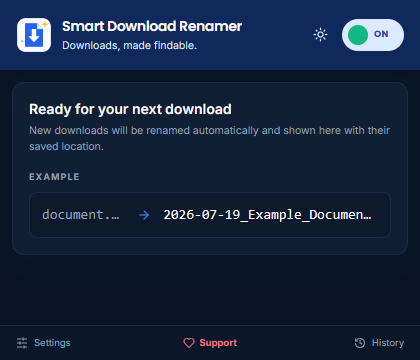
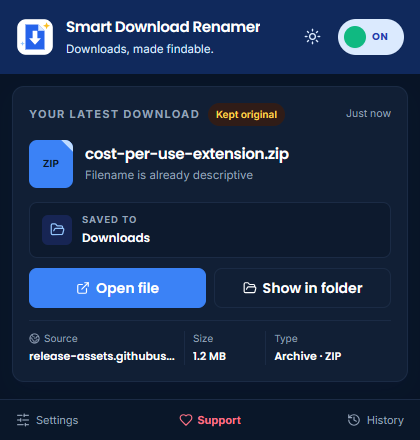
Improve popup readability at real Chrome scale

diff --git a/src/popup/components/LatestDownloadCard.tsx b/src/popup/components/LatestDownloadCard.tsx
@@ -36,35 +36,35 @@ export function LatestDownloadCard({ record, onOpenFile, onShowInFolder }: Lates
     <section className="rounded-xl border border-[#ccd9ee] bg-white p-4 shadow-card dark:border-lift dark:bg-panel">
       <div className="flex items-center justify-between gap-3">
         <div className="flex items-center gap-2">
-          <p className="text-[10px] font-bold uppercase tracking-[0.12em] text-slate-500 dark:text-slate-400">
+          <p className="text-[11px] font-bold uppercase tracking-[0.12em] text-slate-500 dark:text-slate-400">
             Your latest download
           </p>
-          <span className={`inline-flex items-center gap-1 rounded-full px-2 py-1 text-[9px] font-semibold ${statusStyles[record.status]}`}>
-            {record.status === "renamed" && <Check size={10} strokeWidth={3} aria-hidden="true" />}
+          <span className={`inline-flex items-center gap-1 rounded-full px-2 py-1 text-[10px] font-semibold ${statusStyles[record.status]}`}>
+            {record.status === "renamed" && <Check size={11} strokeWidth={3} aria-hidden="true" />}
             {statusLabels[record.status]}
           </span>
         </div>
-        <time className="shrink-0 text-[9.5px] text-slate-500 dark:text-slate-400">
+        <time className="shrink-0 text-[10.5px] text-slate-500 dark:text-slate-400">
           {formatRelativeTime(record.completedAt || record.createdAt)}
         </time>
       </div>
 
       <div className="my-3.5 flex min-w-0 items-center gap-3">
-        <div className="relative grid h-12 w-11 shrink-0 place-items-center overflow-hidden rounded-lg bg-blue-600 text-[9px] font-bold tracking-wide text-white dark:bg-blue-500 dark:text-night">
+        <div className="relative grid h-12 w-11 shrink-0 place-items-center overflow-hidden rounded-lg bg-blue-600 text-[10px] font-bold tracking-wide text-white dark:bg-blue-500 dark:text-night">
           {extension}
           <span className="absolute right-0 top-0 h-3 w-3 bg-blue-300 [clip-path:polygon(100%_0,100%_100%,0_0)] dark:bg-blue-200" />
         </div>
         <div className="min-w-0">
-          <h2 className="filename-line text-[14px] font-semibold tracking-tight text-ink dark:text-white" title={filename}>
+          <h2 className="filename-line text-[15px] font-semibold tracking-[-0.02em] text-ink dark:text-white" title={filename}>
             {filename}
           </h2>
           {record.status === "renamed" && (
-            <p className="filename-line mt-0.5 text-[10.5px] text-slate-500 dark:text-slate-400" title={record.originalFilename}>
+            <p className="filename-line mt-0.5 text-[11.5px] text-slate-500 dark:text-slate-400" title={record.originalFilename}>
               <span className="mr-1 text-slate-400">was</span>{record.originalFilename}
             </p>
           )}
           {record.reason && record.status !== "renamed" && (
-            <p className="filename-line mt-0.5 text-[10.5px] text-slate-500 dark:text-slate-400" title={record.reason}>
+            <p className="filename-line mt-0.5 text-[11.5px] text-slate-500 dark:text-slate-400" title={record.reason}>
               {record.reason}
             </p>
           )}
@@ -72,38 +72,38 @@ export function LatestDownloadCard({ record, onOpenFile, onShowInFolder }: Lates
       </div>
 
       <div className="flex items-center gap-2.5 rounded-lg border border-[#cfdaec] bg-[#f2f6ff] px-3 py-2.5 dark:border-lift dark:bg-[#0d1a2e]">
-        <span className="grid h-7 w-7 shrink-0 place-items-center rounded-md bg-blue-100 text-blue-600 dark:bg-blue-950 dark:text-blue-300">
-          <FolderOpen size={14} aria-hidden="true" />
+        <span className="grid h-[30px] w-[30px] shrink-0 place-items-center rounded-md bg-blue-100 text-blue-600 dark:bg-blue-950 dark:text-blue-300">
+          <FolderOpen size={15} aria-hidden="true" />
         </span>
         <div className="min-w-0">
-          <p className="text-[8px] font-bold uppercase tracking-[0.1em] text-slate-500 dark:text-slate-400">Saved to</p>
-          <p className="font-display filename-line mt-0.5 text-[10.5px] font-semibold text-ink dark:text-white" title={record.fullPath}>
+          <p className="text-[9.5px] font-bold uppercase tracking-[0.1em] text-slate-500 dark:text-slate-400">Saved to</p>
+          <p className="font-display filename-line mt-0.5 text-[12px] font-semibold text-ink dark:text-white" title={record.fullPath}>
             {formatDownloadLocation(record.fullPath)}
           </p>
         </div>
       </div>
 
       <div className="mt-2.5 grid grid-cols-2 gap-2">
-        <Button size="compact" className="h-9 text-[11px]" onClick={() => onOpenFile(record)} disabled={!canOpen} title={canOpen ? "Open the downloaded file" : "Available for newly completed downloads"}>
-          <ExternalLink size={13} aria-hidden="true" /> Open file
+        <Button size="compact" className="h-10 text-[12.5px]" onClick={() => onOpenFile(record)} disabled={!canOpen} title={canOpen ? "Open the downloaded file" : "Available for newly completed downloads"}>
+          <ExternalLink size={14} aria-hidden="true" /> Open file
         </Button>
-        <Button size="compact" className="h-9 text-[11px]" variant="secondary" onClick={() => onShowInFolder(record)}>
-          <FolderOpen size={13} aria-hidden="true" /> Show in folder
+        <Button size="compact" className="h-10 text-[12.5px]" variant="secondary" onClick={() => onShowInFolder(record)}>
+          <FolderOpen size={14} aria-hidden="true" /> Show in folder
         </Button>
       </div>
 
       <dl className="mt-3 grid grid-cols-[1.25fr_.65fr_1fr] border-t border-[#dbe3f0] pt-2.5 dark:border-lift">
         <div className="min-w-0 border-r border-[#dbe3f0] pr-2 dark:border-lift">
-          <dt className="flex items-center gap-1 text-[8.5px] text-slate-500 dark:text-slate-400"><Globe2 size={10} aria-hidden="true" /> Source</dt>
-          <dd className="font-display filename-line mt-0.5 text-[9.5px] font-semibold text-ink dark:text-white">{record.sourceDomain || record.sourceName || "Unknown"}</dd>
+          <dt className="flex items-center gap-1 text-[10px] text-slate-500 dark:text-slate-400"><Globe2 size={11} aria-hidden="true" /> Source</dt>
+          <dd className="font-display filename-line mt-0.5 text-[11px] font-semibold text-ink dark:text-white">{record.sourceDomain || record.sourceName || "Unknown"}</dd>
         </div>
         <div className="min-w-0 border-r border-[#dbe3f0] px-2 dark:border-lift">
-          <dt className="text-[8.5px] text-slate-500 dark:text-slate-400">Size</dt>
-          <dd className="font-display filename-line mt-0.5 text-[9.5px] font-semibold text-ink dark:text-white">{formatFileSize(record.fileSize)}</dd>
+          <dt className="text-[10px] text-slate-500 dark:text-slate-400">Size</dt>
+          <dd className="font-display filename-line mt-0.5 text-[11px] font-semibold text-ink dark:text-white">{formatFileSize(record.fileSize)}</dd>
         </div>
         <div className="min-w-0 pl-2">
-          <dt className="text-[8.5px] text-slate-500 dark:text-slate-400">Type</dt>
-          <dd className="font-display filename-line mt-0.5 text-[9.5px] font-semibold text-ink dark:text-white">{formatDocumentType(record)}</dd>
+          <dt className="text-[10px] text-slate-500 dark:text-slate-400">Type</dt>
+          <dd className="font-display filename-line mt-0.5 text-[11px] font-semibold text-ink dark:text-white">{formatDocumentType(record)}</dd>
         </div>
       </dl>
     </section>

diff --git a/src/popup/components/RecentRenames.tsx b/src/popup/components/RecentRenames.tsx
@@ -17,34 +17,34 @@ export function RecentRenames({ records, onViewAll }: RecentRenamesProps) {
   if (records.length === 0) return null;
 
   return (
-    <section className="rounded-xl border border-[#ccd9ee] bg-white px-4 pb-1.5 pt-3 shadow-card dark:border-lift dark:bg-panel">
-      <div className="flex items-center justify-between pb-2">
+    <section className="rounded-xl border border-[#ccd9ee] bg-white px-4 pb-2 pt-3.5 shadow-card dark:border-lift dark:bg-panel">
+      <div className="flex items-center justify-between pb-2.5">
         <div className="flex items-center gap-2">
-          <h2 className="text-[11px] font-semibold text-ink dark:text-white">Recent activity</h2>
-          <span className="grid min-w-[18px] place-items-center rounded-full bg-accent-soft px-1.5 py-0.5 text-[8px] font-semibold text-blue-700 dark:bg-[#172c52] dark:text-blue-300">
+          <h2 className="text-[12.5px] font-semibold text-ink dark:text-white">Recent activity</h2>
+          <span className="grid min-w-[20px] place-items-center rounded-full bg-accent-soft px-1.5 py-0.5 text-[9.5px] font-semibold text-blue-700 dark:bg-[#172c52] dark:text-blue-300">
             {records.length}
           </span>
         </div>
-        <button className="cursor-pointer text-[9.5px] font-semibold text-blue-700 hover:text-blue-900 dark:text-blue-300 dark:hover:text-blue-200" onClick={onViewAll}>
+        <button className="cursor-pointer text-[11px] font-semibold text-blue-700 hover:text-blue-900 dark:text-blue-300 dark:hover:text-blue-200" onClick={onViewAll}>
           View all
         </button>
       </div>
 
       <div className="divide-y divide-[#dbe3f0] dark:divide-lift">
         {records.slice(0, 2).map((record) => (
-          <div key={record.id} className="grid min-h-[47px] animate-rise grid-cols-[7px_minmax(0,1fr)_14px] items-center gap-2.5">
+          <div key={record.id} className="grid min-h-[52px] animate-rise grid-cols-[7px_minmax(0,1fr)_14px] items-center gap-2.5">
             <span className={`h-2 w-2 rounded-full ${statusColors[record.status]}`} aria-label={record.status} />
             <div className="min-w-0">
-              <p className="font-display filename-line text-[10.5px] font-semibold text-ink dark:text-white" title={displayFilename(record)}>
+              <p className="font-display filename-line text-[12px] font-semibold text-ink dark:text-white" title={displayFilename(record)}>
                 {displayFilename(record)}
               </p>
-              <p className="filename-line mt-0.5 text-[9px] text-slate-500 dark:text-slate-400">
+              <p className="filename-line mt-0.5 text-[10.5px] text-slate-500 dark:text-slate-400">
                 {record.status === "renamed" ? record.originalFilename : record.reason || "Unchanged"}
                 <span className="mx-1.5 text-slate-300 dark:text-slate-600">·</span>
                 {formatRelativeTime(record.completedAt || record.createdAt)}
               </p>
             </div>
-            <ArrowRight size={13} className="text-slate-400" aria-hidden="true" />
+            <ArrowRight size={14} className="text-slate-400" aria-hidden="true" />
           </div>
         ))}
       </div>

diff --git a/scripts/verify-extension-ui.js b/scripts/verify-extension-ui.js
@@ -7,6 +7,25 @@ const distDir = path.join(rootDir, "dist");
 const screenshotsDir = path.join(rootDir, "screenshots");
 const tempRoot = path.join(rootDir, ".tmp");
 const profileDir = path.join(tempRoot, `extension-profile-${process.pid}`);
+const now = Date.now();
+const sampleDownload = {
+  id: "ui-check-download",
+  downloadId: 101,
+  originalFilename: "cost-per-use-extension.zip",
+  suggestedFilename: "cost-per-use-extension.zip",
+  finalFilename: "cost-per-use-extension.zip",
+  fullPath: "C:\\Users\\Taylor\\Downloads\\cost-per-use-extension.zip",
+  fileSize: 1_248_311,
+  completedAt: new Date(now - 12_000).toISOString(),
+  exists: true,
+  sourceDomain: "release-assets.githubusercontent.com",
+  sourceName: "GitHub",
+  documentType: "archive",
+  fileExtension: "zip",
+  createdAt: new Date(now - 15_000).toISOString(),
+  status: "skipped",
+  reason: "Filename is already descriptive",
+};
 
 if (!existsSync(path.join(distDir, "manifest.json"))) {
   throw new Error("Build the extension before running this check.");
@@ -41,7 +60,10 @@ try {
   await popup.setViewportSize({ width: 420, height: 600 });
 
   await popup.goto(`chrome-extension://${extensionId}/popup.html`, { waitUntil: "networkidle" });
-  await popup.evaluate(() => chrome.storage.local.set({ theme: "dark" }));
+  await popup.evaluate(
+    (record) => chrome.storage.local.set({ theme: "dark", renameHistory: [record] }),
+    sampleDownload,
+  );
   await popup.reload({ waitUntil: "networkidle" });
   await popup.evaluate(() => document.fonts.ready);
 
@@ -80,7 +102,12 @@ try {
   if (!popupMetrics.bodyFontLoaded || !popupMetrics.displayFontLoaded || popupMetrics.bodyFont !== popupMetrics.rootFont) {
     throw new Error("Bundled UI font did not load in the extension context.");
   }
-  if (popupMetrics.width !== 420 || popupMetrics.theme !== "dark") {
+  if (
+    popupMetrics.width !== 420
+    || popupMetrics.height < 420
+    || popupMetrics.height > 500
+    || popupMetrics.theme !== "dark"
+  ) {
     throw new Error("Popup dimensions or stored dark theme did not match the release UI.");
   }
   if (mobileMetrics.scrollWidth > mobileMetrics.width) {

diff --git a/src/popup/components/PopupFooter.tsx b/src/popup/components/PopupFooter.tsx
@@ -8,15 +8,15 @@ type PopupFooterProps = {
 
 export function PopupFooter({ onOpenSettings, onOpenHistory }: PopupFooterProps) {
   return (
-    <footer className="grid grid-cols-3 items-center border-t border-[#dbe3f0] bg-white px-4 py-2.5 text-[9.5px] dark:border-lift dark:bg-[#0a1729]">
+    <footer className="grid grid-cols-3 items-center border-t border-[#dbe3f0] bg-white px-4 py-3 text-[11px] dark:border-lift dark:bg-[#0a1729]">
       <button className="flex cursor-pointer items-center gap-1.5 text-slate-500 transition-colors hover:text-blue-700 dark:text-slate-400 dark:hover:text-blue-300" onClick={onOpenSettings}>
-        <SlidersHorizontal size={12} aria-hidden="true" /> Settings
+        <SlidersHorizontal size={14} aria-hidden="true" /> Settings
       </button>
       <a className="flex cursor-pointer items-center justify-center gap-1 font-bold text-rose-500 transition-colors hover:text-rose-700 dark:text-rose-400 dark:hover:text-rose-300" href={SUPPORT_URL} target="_blank" rel="noopener noreferrer" aria-label="Support Smart Download Renamer on Patreon">
-        <Heart size={12} aria-hidden="true" /> Support
+        <Heart size={14} aria-hidden="true" /> Support
       </a>
       <button className="flex cursor-pointer items-center justify-end gap-1.5 text-slate-500 transition-colors hover:text-blue-700 dark:text-slate-400 dark:hover:text-blue-300" onClick={onOpenHistory}>
-        <History size={12} aria-hidden="true" /> History
+        <History size={14} aria-hidden="true" /> History
       </button>
     </footer>
   );

diff --git a/src/popup/components/NamingPreview.tsx b/src/popup/components/NamingPreview.tsx
@@ -14,9 +14,9 @@ export function NamingPreview({ settings, domainRules }: { settings: NamingSetti
   return (
     <div className="rounded-xl border border-[#ccd9ee] bg-white p-4 shadow-card dark:border-lift dark:bg-panel">
       <div>
-        <p className="text-sm font-semibold text-ink dark:text-white">Ready for your next download</p>
-        <p className="mt-1 text-[10.5px] text-slate-500 dark:text-slate-400">New downloads will be renamed automatically and shown here with their saved location.</p>
-        <p className="mb-2 mt-4 text-[9px] font-bold uppercase tracking-[0.12em] text-slate-500 dark:text-slate-400">Example</p>
+        <p className="text-[15px] font-semibold text-ink dark:text-white">Ready for your next download</p>
+        <p className="mt-1 text-[12px] leading-relaxed text-slate-500 dark:text-slate-400">New downloads will be renamed automatically and shown here with their saved location.</p>
+        <p className="mb-2 mt-4 text-[10px] font-bold uppercase tracking-[0.12em] text-slate-500 dark:text-slate-400">Example</p>
         <div className="flex items-center gap-3 rounded-lg border border-[#d8e1f0] bg-[#f2f6ff] px-3 py-3 dark:border-lift dark:bg-[#0d1a2e]">
           <span className="filename-line font-mono text-sm text-muted-dark dark:text-muted">document.pdf</span>
           <ArrowRight size={14} className="shrink-0 text-blue-500" />

diff --git a/src/popup/components/PopupHeader.tsx b/src/popup/components/PopupHeader.tsx
@@ -12,16 +12,16 @@ type PopupHeaderProps = {
 
 export function PopupHeader({ enabled, theme, onEnabledChange, onThemeToggle }: PopupHeaderProps) {
   return (
-    <header className="bg-[#1f4ba8] px-4 pb-4 pt-4 text-white dark:bg-[#10295c]">
+    <header className="bg-[#1f4ba8] px-4 py-4 text-white dark:bg-[#10295c]">
       <div className="flex items-center justify-between gap-3">
-        <div className="flex min-w-0 items-center gap-2.5">
-          <LogoIcon size={36} inverted />
+        <div className="flex min-w-0 items-center gap-3">
+          <LogoIcon size={38} inverted />
           <div className="min-w-0">
-            <h1 className="filename-line text-sm font-semibold tracking-tight">{COPY.appName}</h1>
-            <p className="filename-line mt-0.5 text-[10.5px] text-blue-100">Downloads, made findable.</p>
+            <h1 className="filename-line text-[15px] font-semibold tracking-[-0.02em]">{COPY.appName}</h1>
+            <p className="filename-line mt-0.5 text-[11.5px] text-blue-100">Downloads, made findable.</p>
           </div>
         </div>
-        <div className="flex shrink-0 items-center gap-1.5">
+        <div className="flex shrink-0 items-center gap-2">
           <ThemeToggle theme={theme} onToggle={onThemeToggle} inverted />
           <QuickToggle enabled={enabled} onChange={onEnabledChange} />
         </div>

diff --git a/src/popup/components/QuickToggle.tsx b/src/popup/components/QuickToggle.tsx
@@ -6,10 +6,10 @@ export function QuickToggle({ enabled, onChange }: { enabled: boolean; onChange:
       aria-checked={enabled}
       aria-label="Enable smart renaming"
       onClick={() => onChange(!enabled)}
-      className="flex h-8 min-w-[62px] cursor-pointer items-center gap-1.5 rounded-full bg-white px-1.5 pr-2 text-blue-800 shadow-sm transition-colors hover:bg-blue-50 dark:bg-blue-100"
+      className="flex h-9 min-w-[66px] cursor-pointer items-center gap-1.5 rounded-full bg-white px-1.5 pr-2.5 text-blue-800 shadow-sm transition-colors hover:bg-blue-50 dark:bg-blue-100"
     >
-      <span className={`h-5 w-5 rounded-full shadow-sm transition-colors ${enabled ? "bg-emerald-500" : "bg-slate-400"}`} />
-      <span className="font-display text-[9px] font-bold tracking-wider">{enabled ? "ON" : "OFF"}</span>
+      <span className={`h-[22px] w-[22px] rounded-full shadow-sm transition-colors ${enabled ? "bg-emerald-500" : "bg-slate-400"}`} />
+      <span className="font-display text-[10px] font-bold tracking-wider">{enabled ? "ON" : "OFF"}</span>
     </button>
   );
 }

diff --git a/src/popup/components/ThemeToggle.tsx b/src/popup/components/ThemeToggle.tsx
@@ -4,12 +4,12 @@ export function ThemeToggle({ theme, onToggle, inverted = false }: { theme: "lig
   const Icon = theme === "dark" ? Sun : Moon;
   return (
     <button
-      className={`flex h-8 w-8 cursor-pointer items-center justify-center rounded-lg transition-colors ${inverted ? "text-blue-100 hover:bg-white/10 hover:text-white" : "text-muted hover:bg-blue-50 hover:text-blue-700 dark:hover:bg-lift dark:hover:text-blue-300"}`}
+      className={`flex h-9 w-9 cursor-pointer items-center justify-center rounded-xl transition-colors ${inverted ? "text-blue-100 hover:bg-white/10 hover:text-white" : "text-muted hover:bg-blue-50 hover:text-blue-700 dark:hover:bg-lift dark:hover:text-blue-300"}`}
       onClick={onToggle}
       aria-label="Toggle theme"
       title={theme === "dark" ? "Use light theme" : "Use dark theme"}
     >
-      <Icon size={15} />
+      <Icon size={17} />
     </button>
   );
 }

diff --git a/src/popup/PopupApp.tsx b/src/popup/PopupApp.tsx
@@ -19,11 +19,15 @@ export function PopupApp() {
   }, [theme]);
 
   if (!settings) {
-    return <div className="h-[360px] w-[420px] bg-bg-subtle dark:bg-night" />;
+    return <div className="h-[340px] w-[420px] bg-bg-subtle dark:bg-night" />;
   }
 
   const latest = history[0];
-  const heightClass = latest ? "min-h-[600px]" : "min-h-[360px]";
+  const heightClass = !latest
+    ? "min-h-[340px]"
+    : history.length > 1
+      ? "min-h-[600px]"
+      : "min-h-[440px]";
   const openSettings = () => chrome.runtime.openOptionsPage();
   const openHistory = () => {
     const url = chrome.runtime.getURL("options.html#history");

diff --git a/scripts/screenshots.js b/scripts/screenshots.js
@@ -96,7 +96,8 @@ const browser = await chromium.launch({
 });
 
 async function openPage(page, theme, viewport) {
-  const ctx = await browser.newContext({ viewport, deviceScaleFactor: 2 });
+  // Match the CSS pixel scale used by Chrome's actual extension popup.
+  const ctx = await browser.newContext({ viewport, deviceScaleFactor: 1 });
   const p = await ctx.newPage();
   await p.addInitScript(buildInitScript(theme));
   await p.goto(`${base}/${page}`, { waitUntil: "networkidle" });
